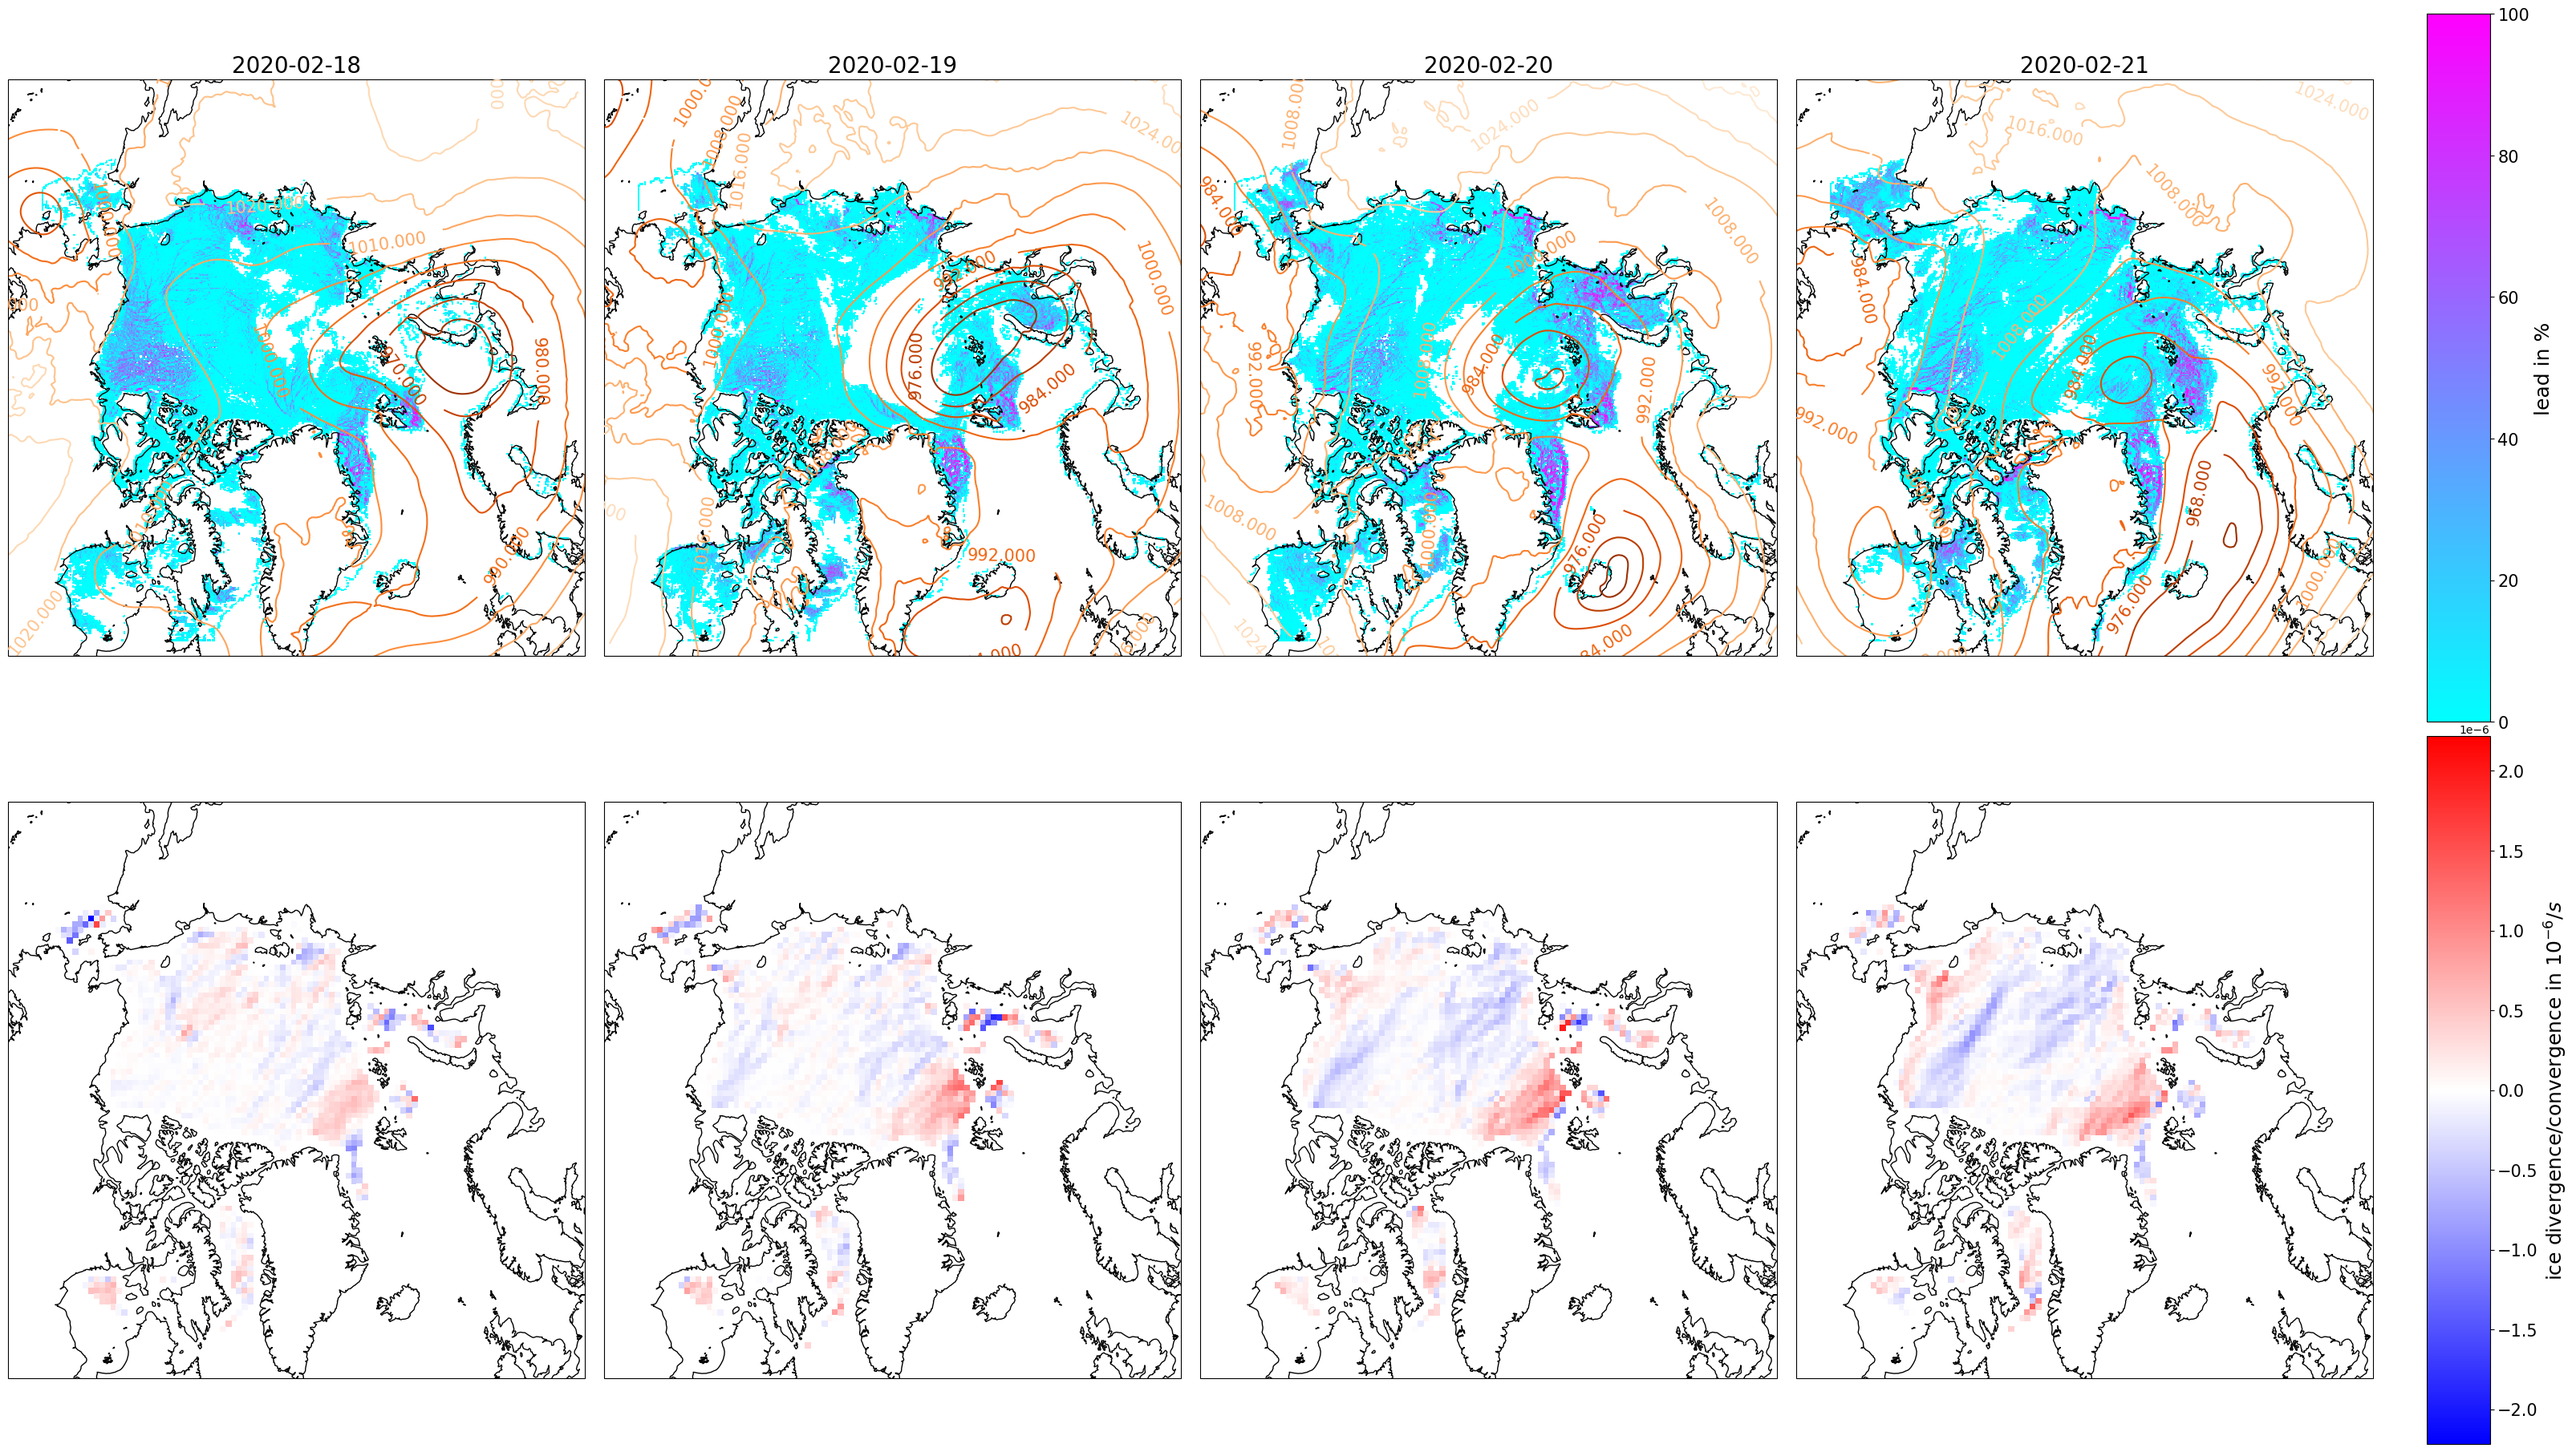
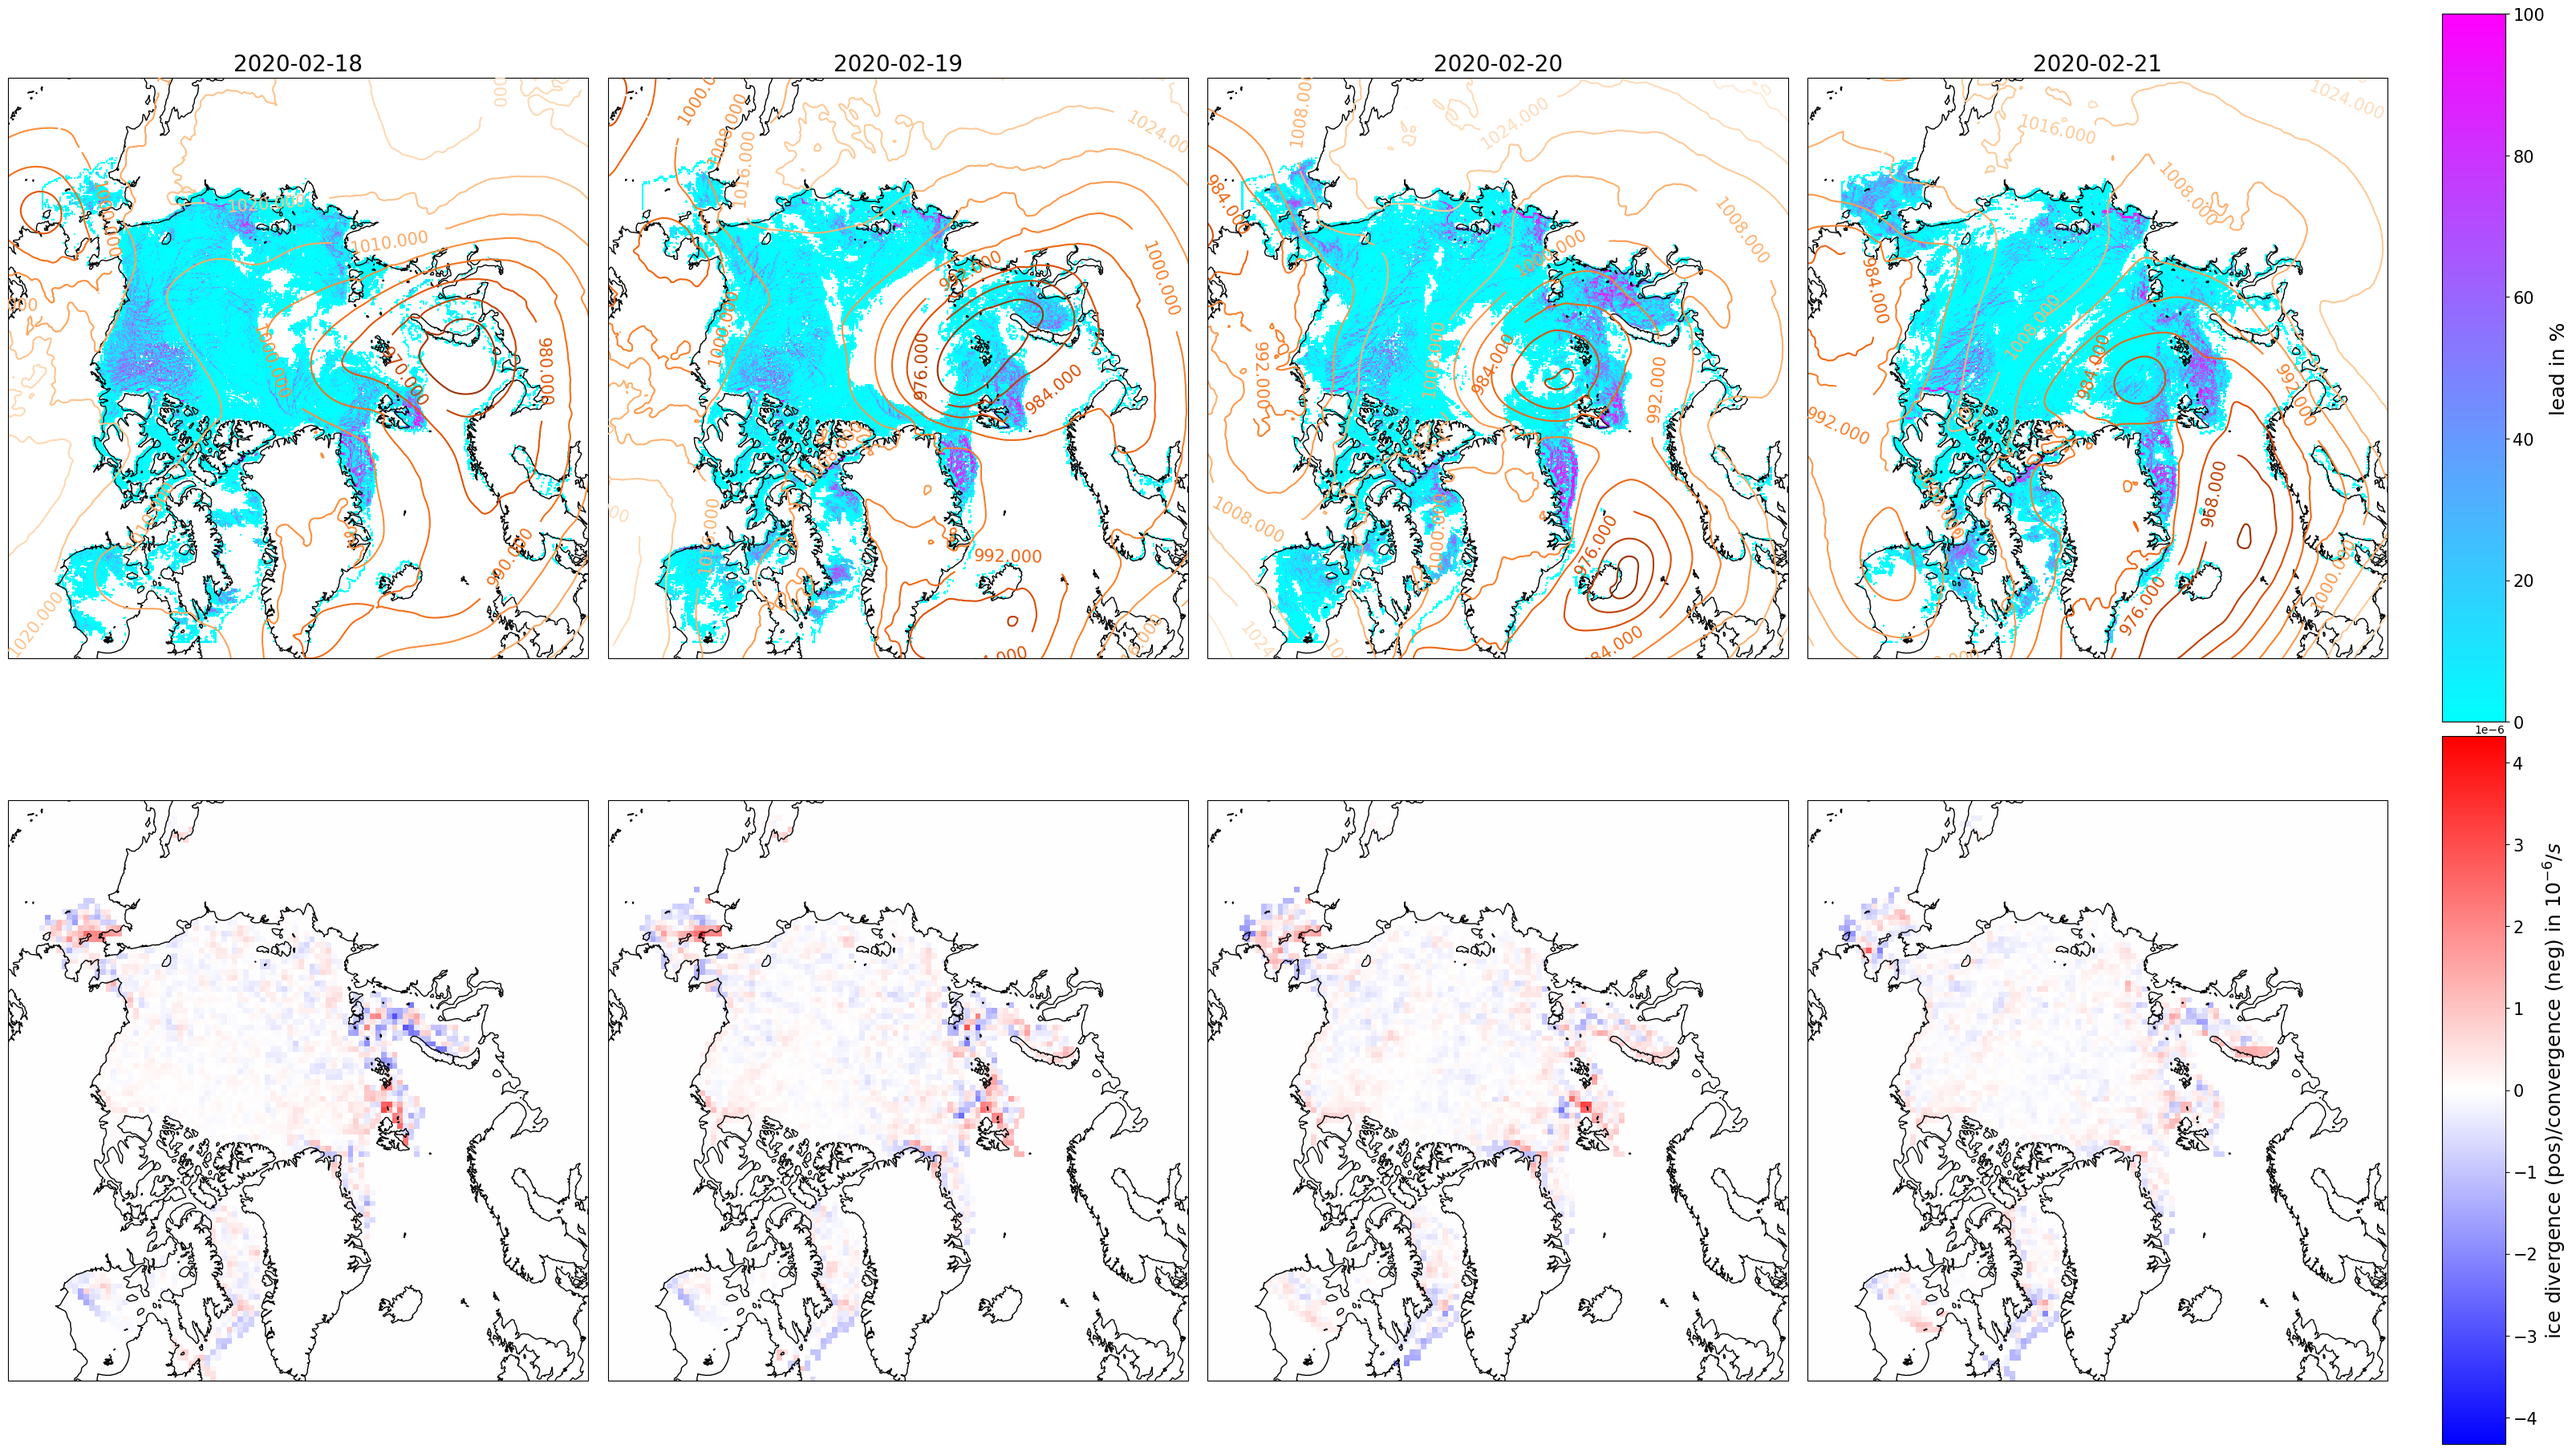
-reversed divergence scale -changed date to date-1

diff --git a/ice_divergence.py b/ice_divergence.py
@@ -161,7 +161,7 @@ class Eumetsat:
 
     def get_disp(self, date):
         # choose the right data set corresponding to date
-        ds = self.data_sets[dscience.string_time_to_datetime(date)]
+        ds = self.data_sets[dscience.string_time_to_datetime(date) + datetime.timedelta(days=1)]
 
         # Get Variables for ice displacement in km
         # set masked values to NaN
@@ -192,33 +192,9 @@ class Eumetsat:
         vp1 = np.vstack((vx, np.vstack((vx, v))))
         up1, vp1 = np.delete(up1, 0, 1), np.delete(vp1, -1, 0)
         up1, vp1 = np.delete(up1, 0, 1), np.delete(vp1, -1, 0)
-        du, dv = u - up1, v - vp1
-        '''
+        du, dv = up1 - u, vp1 - v
 
-        test = 80
-        test2 = 50
-        
-
-        fig, ax = plt.subplots(subplot_kw={"projection": ccrs.NorthPolarStereo(-45)})
-        ax.coastlines(resolution='50m')
-        ax.set_extent(self.extent, crs=ccrs.PlateCarree())
-
-        un = np.full(u.shape, np.nan)
-        vn = np.full(u.shape, np.nan)
-        div = (du + dv)
-        #print(u[81:83, 50:52],'\n',up1[81:83, 50:52], '\n')
-        #print(v[81:83, 50:52],'\n',vp1[81:83, 50:52], '\n')
-        #print(div[82, 50])
-        un[test:test + 10, test2:test2 + 5] = u[test:test + 10, test2:test2 + 5]
-        vn[test:test + 10, test2:test2 + 5] = v[test:test + 10, test2:test2 + 5]
-        #ax.pcolormesh(self.lon, self.lat, dv, transform=ccrs.PlateCarree())
-        print(u[test:test + 10, test2:test2 + 3], '\n')
-        print(v[test:test + 10, test2:test2 + 3], '\n')
-        print(div[test:test + 10, test2:test2 + 3])
-        ax.quiver(self.xc, self.yc, un, vn,transform=ccrs.NorthPolarStereo(-45), scale=.001)
-        plt.show()
-        '''
-        return np.nansum(np.dstack((du,dv)),2)/125
+        return np.nansum(np.dstack((du, dv)), 2)/125
 
     def plot_div(self, dates):
         divs = []
@@ -355,7 +331,7 @@ class Eumetsat:
                 im = ax.pcolormesh(self.lon, self.lat, div, transform=ccrs.PlateCarree(), vmax=d_cap, vmin=-d_cap,
                                    cmap='bwr')
             cbar = fig.colorbar(im, ax=axs[1])
-            cbar.set_label(r'ice divergence/convergence in $10^{-6}/s$', size=18)
+            cbar.set_label(r'ice divergence (pos)/convergence (neg) in $10^{-6}/s$', size=18)
             cbar.ax.tick_params(labelsize=15)
             plot.show_plot(fig, f'./plots/ice divergence/{self.file}/divergence_drift_'
                                 f'{dates[begin]}_{dates[begin + self.prod - 1]}.png', False)
@@ -400,7 +376,7 @@ class Eumetsat:
                 im = ax.pcolormesh(self.lon, self.lat, div, transform=ccrs.PlateCarree(), vmax=d_cap, vmin=-d_cap,
                                    cmap='bwr')
             cbar = fig.colorbar(im, ax=axs[1])
-            cbar.set_label(r'ice divergence/convergence in $10^{-6}/s$', size=18)
+            cbar.set_label(r'ice divergence (pos)/convergence (neg) in $10^{-6}/s$', size=18)
             cbar.ax.tick_params(labelsize=15)
             plot.show_plot(fig, f'./plots/ice divergence/{self.file}/divergence_{path}_'
                                 f'{dates[begin]}_{dates[begin + self.prod - 1]}.png', False)
@@ -458,11 +434,18 @@ class Eumetsat:
 
 
 if __name__ == '__main__':
-    #Eumetsat(ci.barent_extent).plot_drift_leads(dscience.time_delta('20200210', '20200229'), True)
-    #Eumetsat(ci.arctic_extent).ice_div('20200220')
-    Eumetsat(ci.barent_extent).plot_quiver_div(dscience.time_delta('20200210', '20200229'))
-    #Eumetsat(ci.arctic_extent).plot_quiver(['20200217'], False)
-    #Eumetsat(ci.arctic_extent).plot_drift_leads(dscience.time_delta('20200210', '20200229'), False)
-    # test new username
-    #Eumetsat(ci.arctic_extent).plot_div_leads(dscience.time_delta('20200210', '20200229'), True)
-    #Eumetsat(ci.arctic_extent).plot_div_leads(dscience.time_delta('20200210', '20200229'), False)
+    # all plots related to ice drift Barent Sea
+    # Eumetsat(ci.barent_extent).plot_drift_leads(dscience.time_delta('20200210', '20200228'), True)
+    # Eumetsat(ci.barent_extent).plot_drift_leads(dscience.time_delta('20200210', '20200228'), False)
+    # Eumetsat(ci.barent_extent).plot_quiver_div(dscience.time_delta('20200210', '20200228'))
+    # Eumetsat(ci.barent_extent).plot_div_leads(dscience.time_delta('20200210', '20200228'), True)
+    # Eumetsat(ci.barent_extent).plot_div_leads(dscience.time_delta('20200210', '20200228'), False)
+
+    # all plots related to ice drift entire Arctic
+    Eumetsat(ci.arctic_extent).plot_drift_leads(dscience.time_delta('20200210', '20200228'), True)
+    Eumetsat(ci.arctic_extent).plot_drift_leads(dscience.time_delta('20200210', '20200228'), False)
+    Eumetsat(ci.arctic_extent).plot_quiver_div(dscience.time_delta('20200210', '20200228'))
+    Eumetsat(ci.arctic_extent).plot_div_leads(dscience.time_delta('20200210', '20200228'), True)
+    Eumetsat(ci.arctic_extent).plot_div_leads(dscience.time_delta('20200210', '20200228'), False)
+
+    pass
